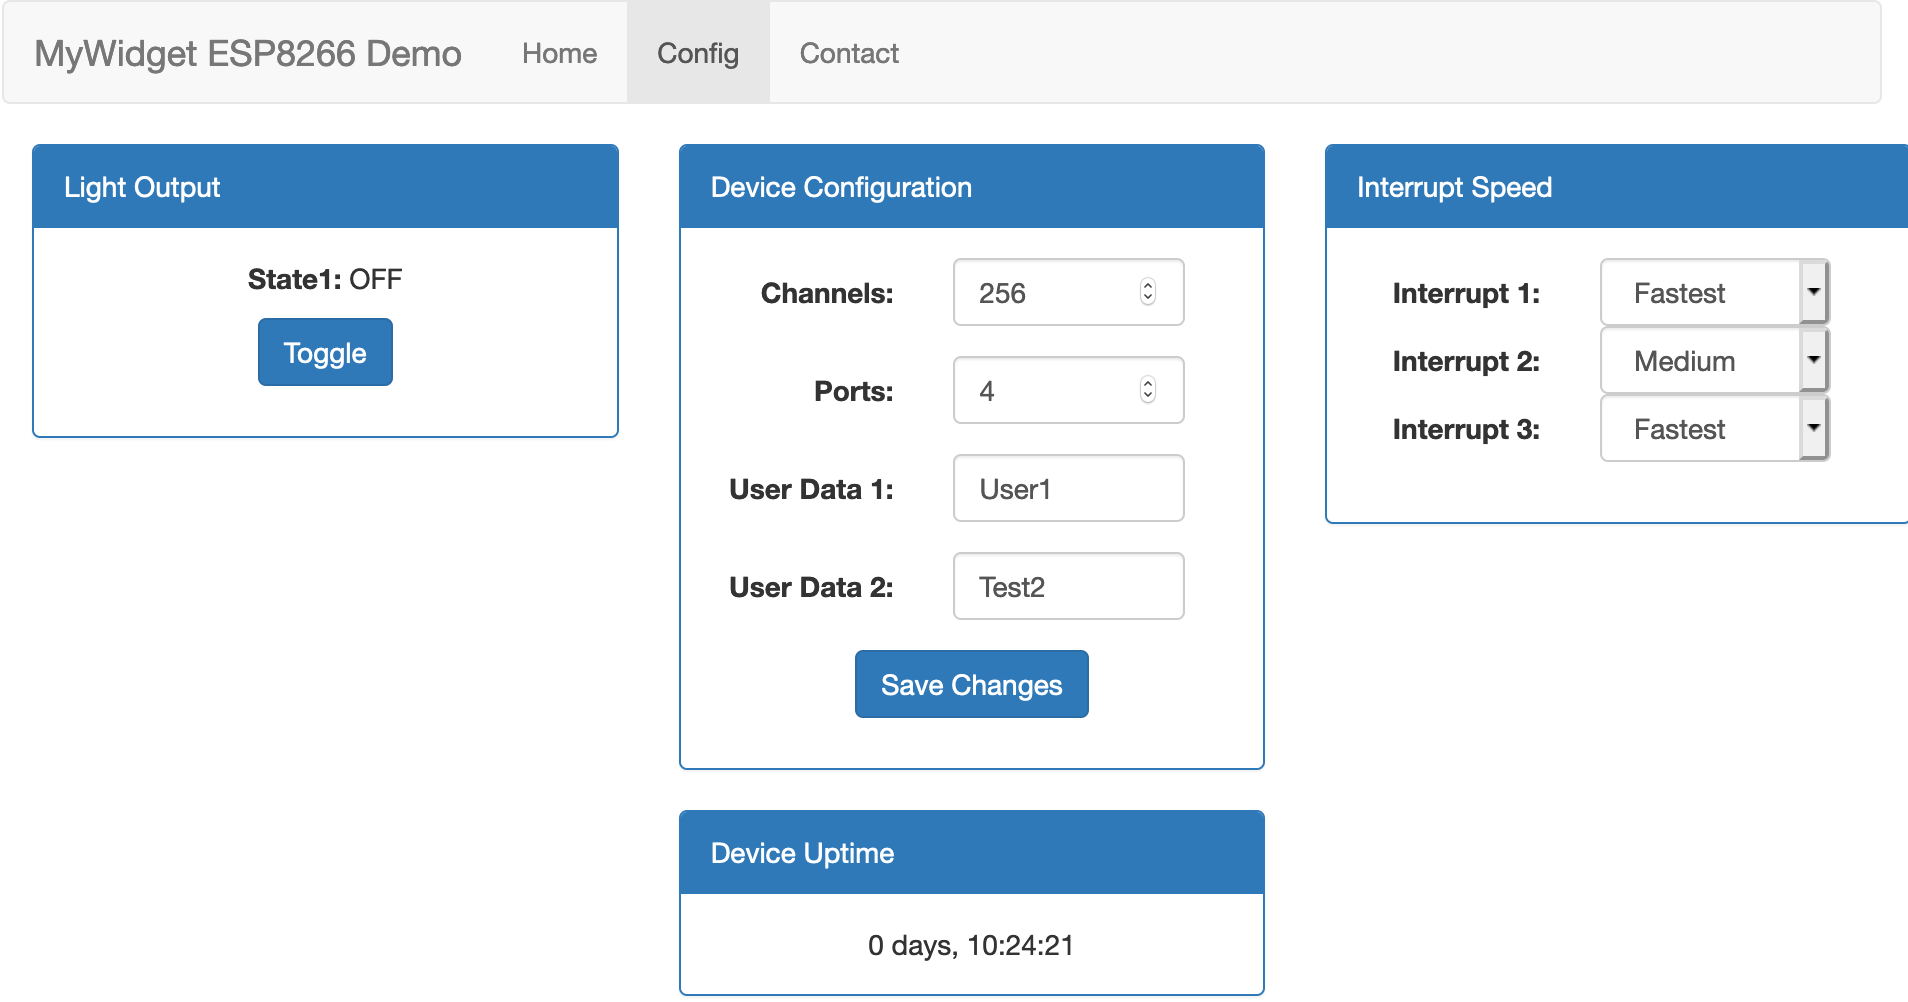
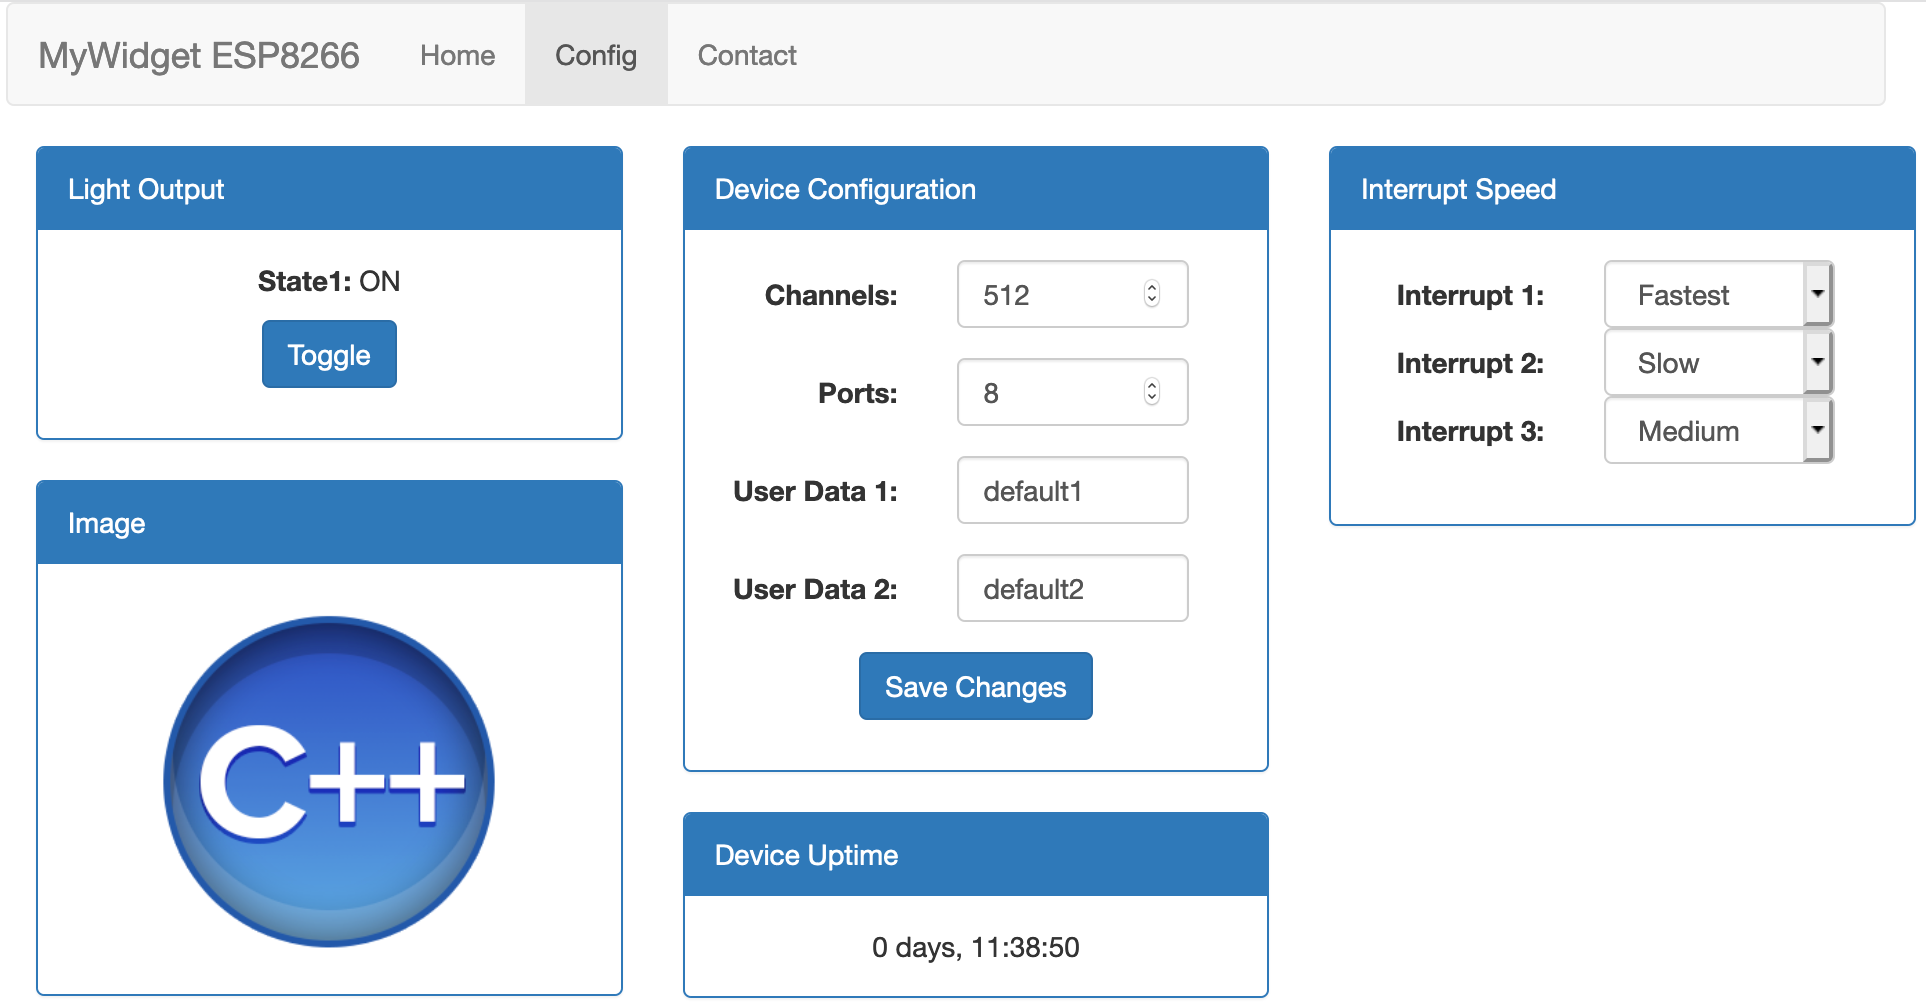
Added image support
Display image on config page.

diff --git a/data/index.html b/data/index.html
@@ -67,6 +67,9 @@
                   Embedded Bootstrap (3.4.1)
                 </li>
                 <li class="list-group-item">
+                  Embedded html, css, JS and Images
+                </li>
+                <li class="list-group-item">
                   Save/Load Config File (text)
                 </li>
                 <li class="list-group-item">
@@ -79,10 +82,13 @@
                   API Web Services
                 </li>
                 <li class="list-group-item">
-                  Auto Updating Web Site (Web Services using JS)
+                  Dynamically Updating Web Site (Web Services using JS)
                 </li>
                 <li class="list-group-item">
-                  Multiple Interrupt Timers (Flash Onboard LED)
+                  Multiple Interrupt Timers (ESP8266TimerInterrupt)
+                </li>
+                <li class="list-group-item">
+                  Flash Onboard LED Using Interrupt Timer
                 </li>
               </strong>
               </ul>

diff --git a/data/config.html b/data/config.html
@@ -49,6 +49,12 @@
                 <p><center><button id="toggle" class="btn btn-primary">Toggle</button></center></p>
               </div>
             </div> <!-- panel -->
+            <div class="panel panel-primary">
+              <div class="panel-heading">Image</div>
+              <div class="panel-body">
+                <center><img src="cplusplus" alt="C++ image" width="185" height="185"></center>
+              </div>            
+            </div> <!-- panel -->
           </div> <!-- col -->
           <div class="col-md-4">
             <div class="panel panel-primary">

diff --git a/README.md b/README.md
@@ -18,11 +18,12 @@ This project includes:
 - Asynchronous MQTT (PangolinMQTT)
 - LittleFS File System
 - Embedded Bootstrap (3.4.1)
-- Embedded jquery (3.5.1)
+- Embedded jQuery (3.5.1)
+- Embedded html, css, JS and Images
 - Save/Load Config File (text)
 - OTA (Over the Air) Updates
 - HTTP API Supports HTTP GET/POST
-- Auto Updating Web Site (Web Services using JS)
+- Dynamically Updating Web Site (Web Services using JS)
 - Multiple Interrupt Timers (ESP8266TimerInterrupt)
 - Flash Onboard LED Using Interrupt Timer
 - Plus much more...
@@ -116,7 +117,8 @@ Extract the folder in each of these zip files and place it in the "library" fold
 ## Web Server
 
 - Asynchronous
-- Supports serving html, css, js files
+- Supports serving embedded html, css, js files
+- Supports serving embedded images
 - Sets default to index.html
 - Serves two embedded web pages (index.html & config.html)
 - Supports file not found message
@@ -322,6 +324,7 @@ Here is the directory and files associated with this project.
   cfg.txt (config file - text format)
   index.html (index file - HTML page)
   config.html (config file - HTML page)
+  cplusplus.png (image file)
 
 If you modify a file locally, you must upload to device using [Arduino ESP8266 LittleFS Filesystem Uploader](https://github.com/esp8266/arduino-esp8266fs-plugin)
 
@@ -398,6 +401,7 @@ Later I went back and added an HTTP GET with JSON response example without any J
 - [X] Support multiple interrupt timers (ESP8266TimerInterrupt)
 - [X] Support dynamic interval timers on config page
 - [X] Support HTTP GET INTERRUPT COUNT with optional parameters
+- [X] Embedded image support
 - [ ] Asynch NTP support
 - [ ] More code comments
 - [ ] Other?
@@ -408,7 +412,7 @@ Later I went back and added an HTTP GET with JSON response example without any J
 - [BootStrap](https://getbootstrap.com/docs/3.4/) - BootStrap(3.4.1) - HTML, CSS, and JS framework
 - [jQuery](https://jquery.com/) - JS utility library
 - [OTA with Arduino IDE](https://arduino-esp8266.readthedocs.io/en/latest/ota_updates/readme.html#arduino-ide) - How to setup and config IDE for OTA updates
-- [Random Nerd Tutorials](https://randomnerdtutorials.com/) - Lots of good information on ESP8266 here
+- [Random Nerd Tutorials](https://randomnerdtutorials.com/) - Lots of good information on ESP8266 projects here
 
 ## Credits
 
